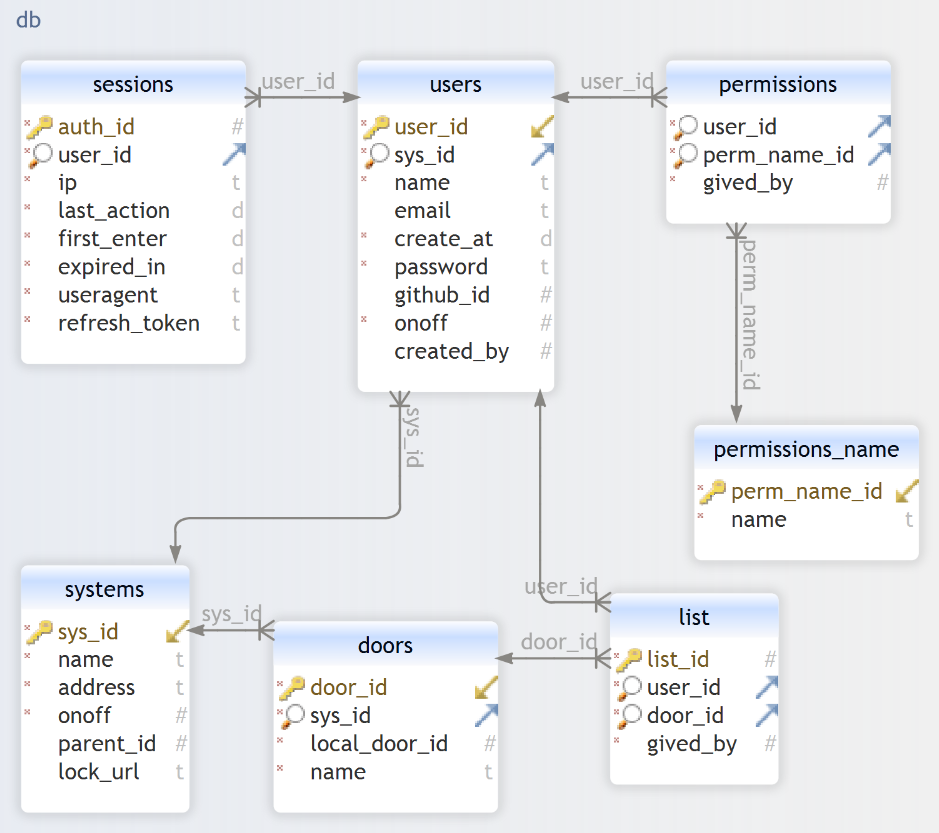
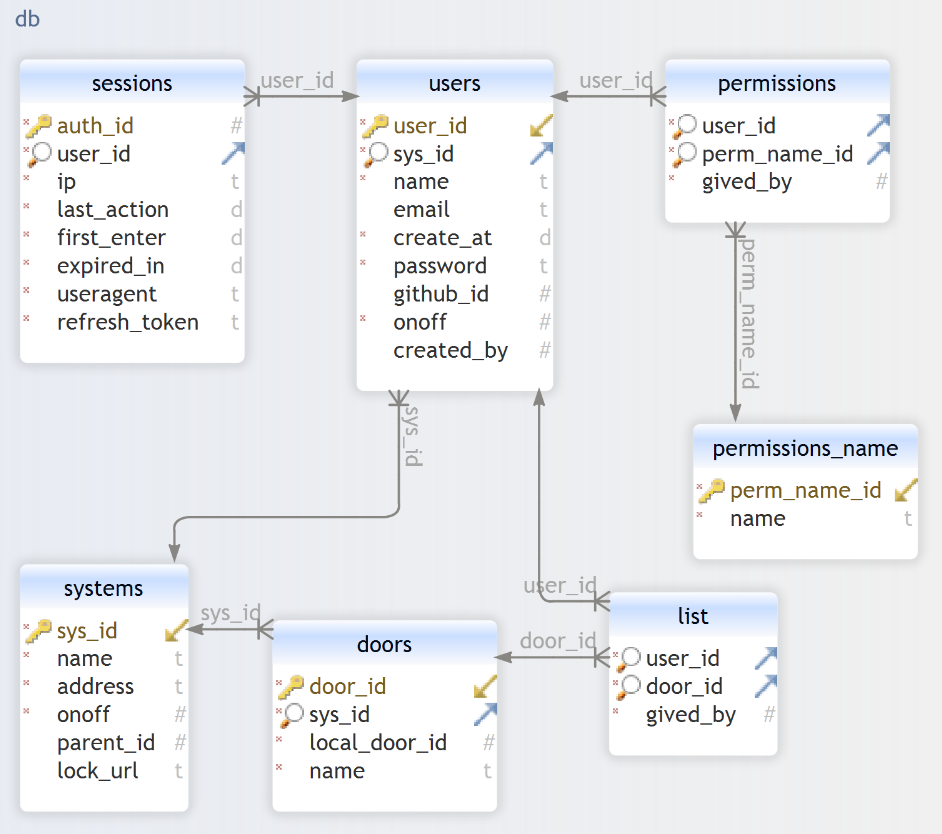
remove list_id

diff --git a/technical_specification.md b/technical_specification.md
@@ -114,7 +114,6 @@ local_door_id - номер двери использующийся в запро
 
 | name     | type | constraints | description | default        |
 |----------|------|-------------|-------------|----------------|
-| list_id  | int  | PRIMARY     | Id of list  | AUTO_INCREMENT |
 | user_id  | int  |             | User id     |                |
 | door_id  | int  |             | Door id     |                |
 | gived_by | int  |             | User gived  |                |
